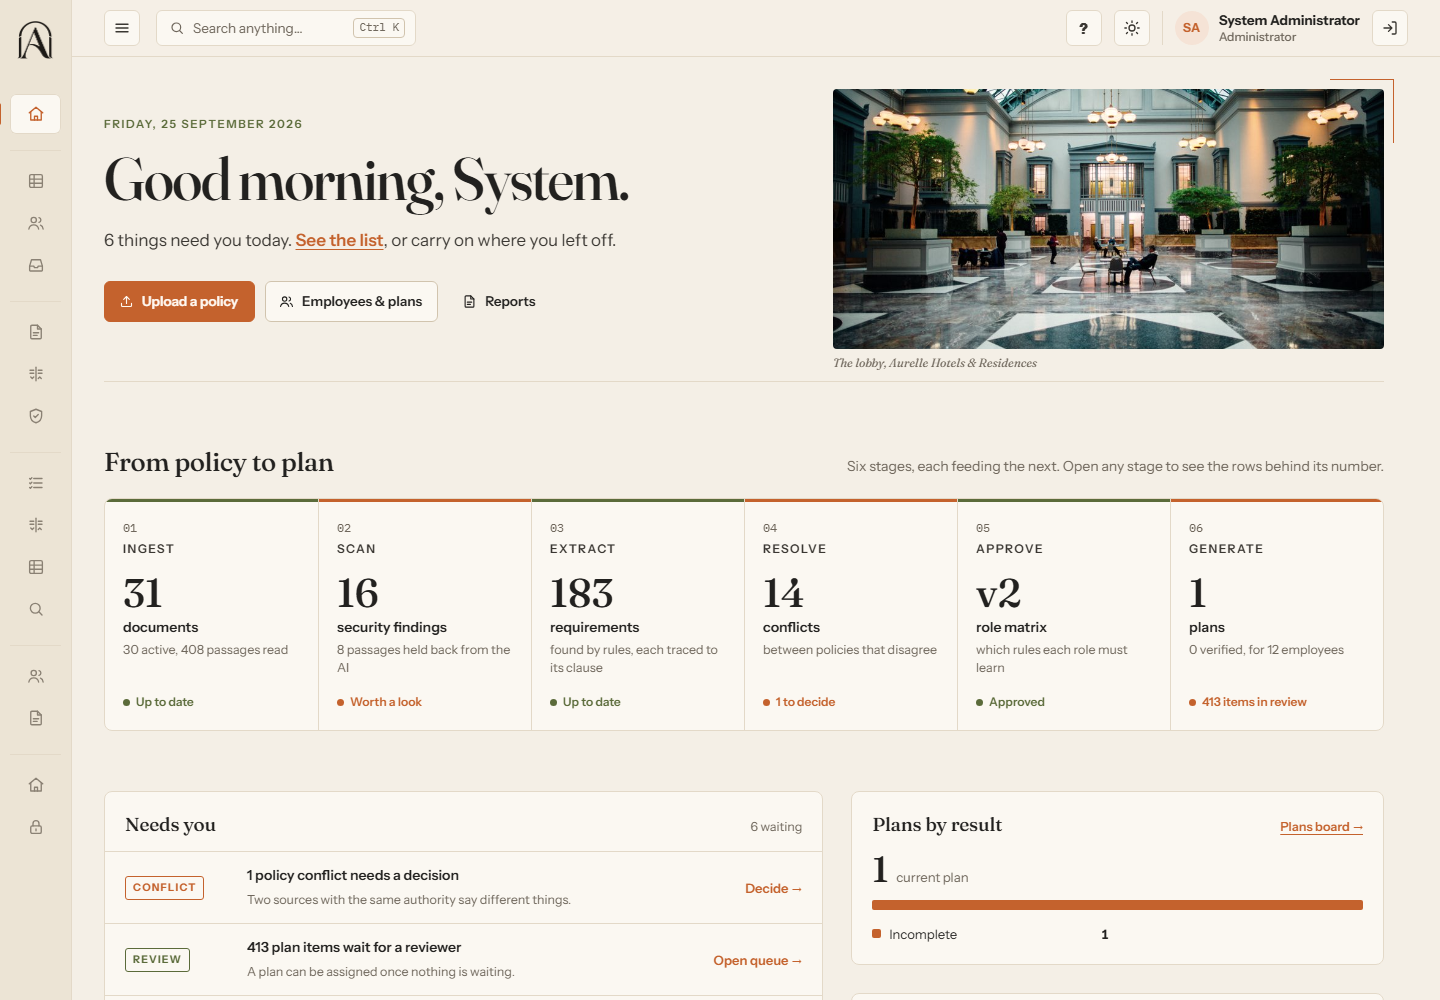
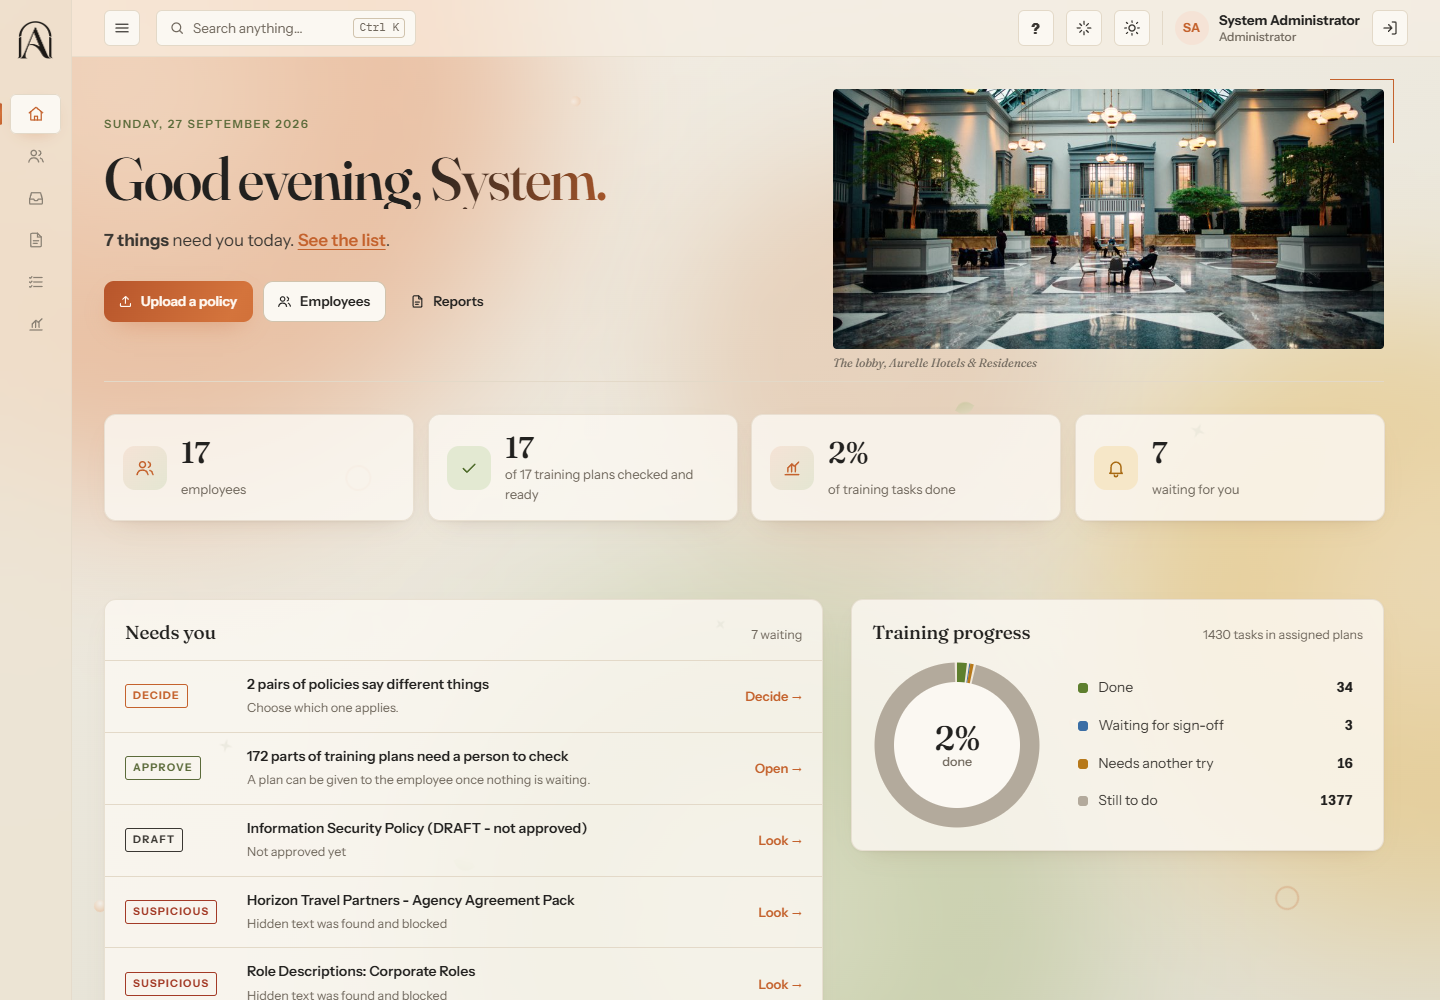
README execution steps use the current page names; PostgreSQL first in installation; screenshots of the current workspace with an index

diff --git a/README.md b/README.md
@@ -31,7 +31,7 @@ The demonstration organisation is **Aurelle Hotels & Residences**, a fictional h
 4. **Configuration.** `cp .env.example .env` (Windows: `copy .env.example .env`) and fill in:
    - `SECRET_KEY`: a long random string;
    - `GEMINI_API_KEY`: a key from Google AI Studio (only needed to generate plans; everything else works without it);
-   - `DATABASE_URL`: leave empty for the local SQLite file, or see [Using PostgreSQL](#using-postgresql).
+   - `DATABASE_URL`: your PostgreSQL database (see [Using PostgreSQL](#using-postgresql)). Left empty, the app falls back to a local SQLite file, which is enough for a quick look.
 
    API keys and passwords go only in `.env` (git-ignored) or the host's secret store, never in the code or the repository.
 5. **Documents.** Nothing to do locally: the 44 sample documents in `sample_documents/` are ingested on first start. For PostgreSQL, load them with the commands below.
@@ -152,26 +152,26 @@ Sign in as `admin@aurelle.example` (all steps) or the role named in each step.
 | # | Step | Where |
 |---|---|---|
 | 1 | **Login** | `/login`. One page for everyone; the sidebar shows only what the role may open |
-| 2 | **Upload documents** | *Documents > Upload*. Metadata is read from the document, the form, or inferred, and the source of each value is shown. The security scan runs on upload |
-| 3 | **Create role** | *People > Job roles > Add a role*. Preview which requirements it picks up, then activate |
-| 4 | **Create employee** | *People > Employees > Add*. The login e-mail and password are set here by an administrator |
-| 5 | **Generate requirement matrix** | *Ground truth > Role matrix > Build new draft*, review the requirements, then *Approve* |
-| 6 | **Generate onboarding plan** | *Employees & plans*, choose an employee, *Generate plan* (Gemini) |
-| 7 | **Run validation** | Runs automatically after generation; *Run consistency check* on the plan page repeats it |
-| 8 | **Review comparison results** | Plan page, tab *AI vs approved matrix*; report *GenAI vs Python comparison* |
-| 9 | **Review hallucination warnings** | Plan page, *Findings* (V-HALLUCINATION, V-SOURCE); *What the sources do not cover*; *Knowledge > Topic check*; report *Hallucination flags* |
-| 10 | **Review contradictions** | *Ground truth > Conflicts* (Reviewer: `evaluator@aurelle.example`) |
-| 11 | **Approve content** | *Review queue*: approve, reject, edit, override with a reason; then *Assign plan* on the plan page |
-| 12a | **Ask the bot** | Employee: *Ask the bot*, or *Ask about this module* on a module page. Try a covered question ("How much cash can my float have?"), an uncovered one, and *Ask my manager*; the manager replies on *Team questions*. Unanswered questions appear in the report *Questions the documents did not answer* |
-| 12 | **Track employee progress** | Employee: `leila.haddad@aurelle.example`. Manager: `omar.siddiqui@aurelle.example` (*My team*, sign-offs) |
-| 13 | **Update policy** | Upload a new version of an existing document (for example `hidden_test_ready/documents/GDP-01_v3.0.pdf`) |
-| 14 | **Regenerate affected content** | *Policy changes*, open the change, *Regenerate affected modules* |
-| 15 | **Generate reports** | *Reports*: each report as CSV, Excel or PDF |
+| 2 | **Upload documents** | *Documents > All documents > Upload document* (or *Upload a policy* on Home). Metadata is read from the document, the form, or inferred, and the source of each value is shown. The security scan runs on upload; findings are on *Documents > Safety check* |
+| 3 | **Create role** | *Organisation > Job roles*, *Add this job*. Preview which requirements it picks up, then *Activate role* |
+| 4 | **Create employee** | *Onboarding > Employees > Add employee*. Choose the job role, property, shift and line manager; the login e-mail and password are set here by an administrator |
+| 5 | **Generate requirement matrix** | *Rules > All rules* to check the extracted rules, then *Rules > Who learns what > Build a new list* and *Approve this list* |
+| 6 | **Generate onboarding plan** | *Onboarding > Employees*, *Make a plan* next to the employee (Gemini) |
+| 7 | **Run validation** | Runs automatically after generation; the plan's *Summary* tab shows the status and scores, and *Run consistency check* repeats the outline |
+| 8 | **Review comparison results** | Plan page, tab *AI vs approved list*; report *GenAI vs Python comparison* |
+| 9 | **Review hallucination warnings** | Plan page, tab *Problems found* (V-HALLUCINATION, V-SOURCE) and *Things the policies do not cover*; *Rules > Is it covered?*; report *Hallucination and unsupported content* |
+| 10 | **Review contradictions** | *Rules > Clashing policies* (decided by the Reviewer: `evaluator@aurelle.example`) |
+| 11 | **Approve content** | Reviewer: *Decide > Approvals* (approve, reject, edit, override or regenerate, each with a reason). Then the training manager uses *Give the plan to …* on the plan page |
+| 12 | **Ask a question** | Employee: *Ask a question*, or *Ask a question about this* on a module page. Try a covered question ("How much cash can my float have?"), an uncovered one, and *Ask my manager*; the manager replies on *Team questions*. Unanswered questions appear in the report *Questions the documents did not answer* |
+| 13 | **Track employee progress** | Employee: `leila.haddad@aurelle.example` (*Home*, *Modules*, *Progress*). Manager: `omar.siddiqui@aurelle.example` (*My team*: sign-offs, assessments to mark, recommendations) |
+| 14 | **Update policy** | Upload a new version of an existing document (for example `hidden_test_ready/documents/GDP-01_v3.0.pdf`) |
+| 15 | **Regenerate affected content** | *Documents > What changed*, open the change, *Regenerate affected modules* |
+| 16 | **Generate reports** | *Organisation > Reports* (training manager: *Results > Reports*): each report as CSV, Excel or PDF |
 
 ## Evaluating SkillSprint
 
 - **Logins.** The evaluator and administrator logins for the live application are given in the submission form, not here. Locally, use the accounts in the table above.
-- **Sample roles.** 10 job roles (Front Office Associate, Duty Manager, Housekeeping Supervisor, and others) with employees and managers; *People > Job roles* shows each role's required rules and progress.
+- **Sample roles.** 10 job roles (Front Office Associate, Duty Manager, Housekeeping Supervisor, and others) with employees and managers; *Organisation > Job roles* shows each role's required rules and progress.
 - **Sample documents.** `sample_documents/` (44 files, 31 documents with versions), with planted conflicts, injections, a draft and an expired SOP; the answer key is in `documentation/dataset/`.
 - **Hidden documents.** Upload them on *Documents > Upload*, or run `python -m flask --app run ingest-folder <folder> --report reports/hidden_readiness.md`. The rehearsal pack in `hidden_test_ready/` shows the expected behaviour for each of the ten hidden-document types.
 - **Evidence.** `reports/evidence/` holds exports of the reports from the live workspace; `reports/extraction_accuracy.md` and `reports/hidden_rehearsal.md` are generated by the tools named in them.
@@ -193,7 +193,6 @@ Sign in as `admin@aurelle.example` (all steps) or the role named in each step.
 - **Topic check matches words, not meaning.** A topic phrased with words the documents do not use (for example "kept" where the policy says "deleted") scores lower and is sent to a person rather than refused.
 - **Numbers-based hallucination check.** V-HALLUCINATION compares numbers, durations and named facts with the cited source; a wrong statement with no checkable fact relies on the reviewer.
 - **No OCR, no languages other than English.**
-- **Latency.** The application server (Singapore) and database (Tokyo) are in different regions, which adds round-trip time to heavy pages.
 - **E-mail** needs a provider; on Railway only the Brevo HTTPS option works.
 
 ## Commands
@@ -240,7 +239,7 @@ sample_documents/     the Aurelle document collection (PDF + DOCX)
 hidden_test_ready/    rehearsal pack for the hidden evaluation and its runner
 tools/                dataset builder, accuracy tool, demo workspace and hidden pack builders
 reports/              extraction accuracy, hidden rehearsal, exported evidence
-screenshots/          screenshots of every main page
+screenshots/          screenshots of every main page, per role (index in screenshots/README.md)
 documentation/        requirements analysis, architecture, database design, dataset blueprint
 ```
 

diff --git a/screenshots/README.md b/screenshots/README.md
@@ -1,36 +1,38 @@
 # Screenshots
 
-Taken from a local SQLite copy of the Aurelle sample workspace (fictional data). No passwords or keys appear in them.
+The Aurelle workspace on 27 September 2026, 1440 × 1000, light mode. Every page is shown as the named login sees it.
 
-| File | Shows |
-|---|---|
-| `01_sign_in.png` | One sign-in page for client users, SkillSprint staff and demo visitors |
-| `02_admin_home.png` | Administrator home: the pipeline from policy to plan and what needs attention |
-| `03_documents.png` | Uploaded documents with version status (active, superseded, scheduled, expired, draft) |
-| `04_security_scan.png` | Prompt-injection findings and quarantined passages |
-| `05_requirements.png` | Requirements extracted by Python, each traced to a document section |
-| `06_conflicts.png` | Contradictions between documents with the precedence rule applied |
-| `07_role_matrix.png` | Role Requirement Matrix versions (draft, approved) |
-| `08_policy_changes.png` | Clause-by-clause policy changes and their impact |
-| `09_topic_check_covered.png` | Topic check: a topic the approved documents cover, with the passages |
-| `10_topic_check_refused.png` | Topic check: a topic nothing covers, so nothing is generated |
-| `11_job_roles_dashboard.png` | Job roles with required rules, plans, coverage and onboarding progress |
-| `12_training_manager_home.png` | Training manager home and plans board |
-| `13_plan_scores.png` | A generated plan: verdict, pipeline timing, review gate and scores |
-| `14_reviewer_home.png` | Reviewer home |
-| `15_review_item.png` | One review item with the reason Python flagged it |
-| `16_manager_home.png` | Line manager home |
-| `17_manager_team_member.png` | A team member's progress, sign-offs and recommendations |
-| `18_employee_home.png` | Employee home |
-| `19_employee_module.png` | A learning module with checklist and sources |
-| `20_employee_quiz.png` | A Python-scored knowledge check |
-| `21_employee_certificate.png` | Onboarding certificate |
-| `22_reports.png` | Reports with CSV, Excel and PDF export |
-| `23_search_palette.png` | Ctrl+K search across pages, documents, requirements, employees and modules |
-| `24_page_access_settings.png` | Administrator decides which pages each role sees |
-| `25_employee_home_composer.png` | Administrator composes the employee home page |
-| `26_request_demo.png` | Public demo request form |
-| `27_skillsprint_console.png` | SkillSprint staff console (demo requests and accounts) |
-| `28_demo_sample_workspace.png` | What a demo visitor sees: the fictional sample workspace, never client data |
-| `29_ask_the_bot.png` | Ask the bot: answers from the policies with their source, a question sent to the manager |
-| `30_manager_team_questions.png` | Line manager replies to a question the documents do not answer |
+| File | Page | Login |
+|---|---|---|
+| `01_sign_in.png` | Sign in | — |
+| `02_admin_home.png` | Home: what needs attention, training progress, charts | Administrator |
+| `03_documents.png` | Documents > All documents | Administrator |
+| `04_document_detail.png` | A document version (GDP-01 v2.0) with metadata sources | Administrator |
+| `05_safety_check.png` | Documents > Safety check (prompt-injection findings) | Administrator |
+| `06_all_rules.png` | Rules > All rules (extracted requirements) | Administrator |
+| `07_clashing_policies.png` | Rules > Clashing policies (conflicts and precedence) | Administrator |
+| `08_who_learns_what.png` | Rules > Who learns what (Role Requirement Matrix) | Administrator |
+| `09_what_changed.png` | Documents > What changed: a policy change and its impact | Administrator |
+| `10_is_it_covered_yes.png` | Rules > Is it covered? — a topic the documents cover | Administrator |
+| `11_is_it_covered_no.png` | Rules > Is it covered? — a topic they do not cover | Administrator |
+| `12_job_roles.png` | Organisation > Job roles | Administrator |
+| `13_plan_summary.png` | A training plan: journey, status and scores | Administrator |
+| `14_reports.png` | Organisation > Reports | Administrator |
+| `15_roles_and_access.png` | Settings > Roles & access | Administrator |
+| `16_employee_home_settings.png` | Settings > Employee home | Administrator |
+| `17_training_manager_home.png` | Plans board | Training Manager |
+| `18_employees.png` | Onboarding > Employees | Training Manager |
+| `19_reviewer_home.png` | My reviews | Reviewer |
+| `20_approvals.png` | Decide > Approvals (review queue) | Reviewer |
+| `21_review_item.png` | A review item with its evidence and decision | Reviewer |
+| `22_manager_home.png` | Line manager home | Line Manager |
+| `23_my_team.png` | My team | Line Manager |
+| `24_team_member.png` | A team member's progress, sign-offs and suggestions | Line Manager |
+| `25_team_questions.png` | Team questions | Line Manager |
+| `26_request_demo.png` | Public site: request a demo | — |
+| `27_employee_home.png` | Employee home | Employee |
+| `28_employee_module.png` | A module | Employee |
+| `29_employee_quiz.png` | A module quiz | Employee |
+| `30_employee_progress.png` | Progress | Employee |
+| `31_ask_a_question.png` | Ask a question | Employee |
+| `32_certificate.png` | Certificate | Employee |
